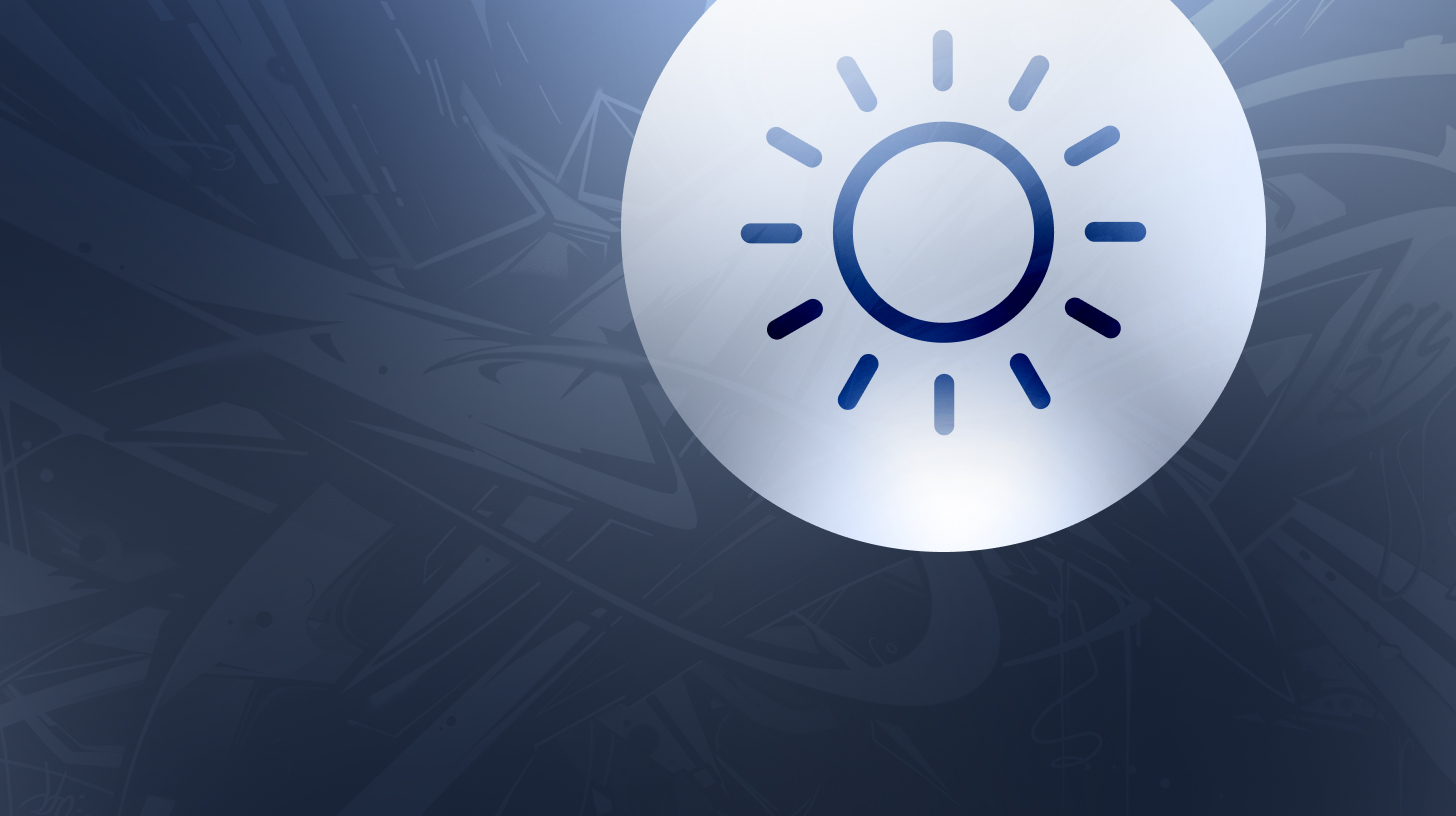
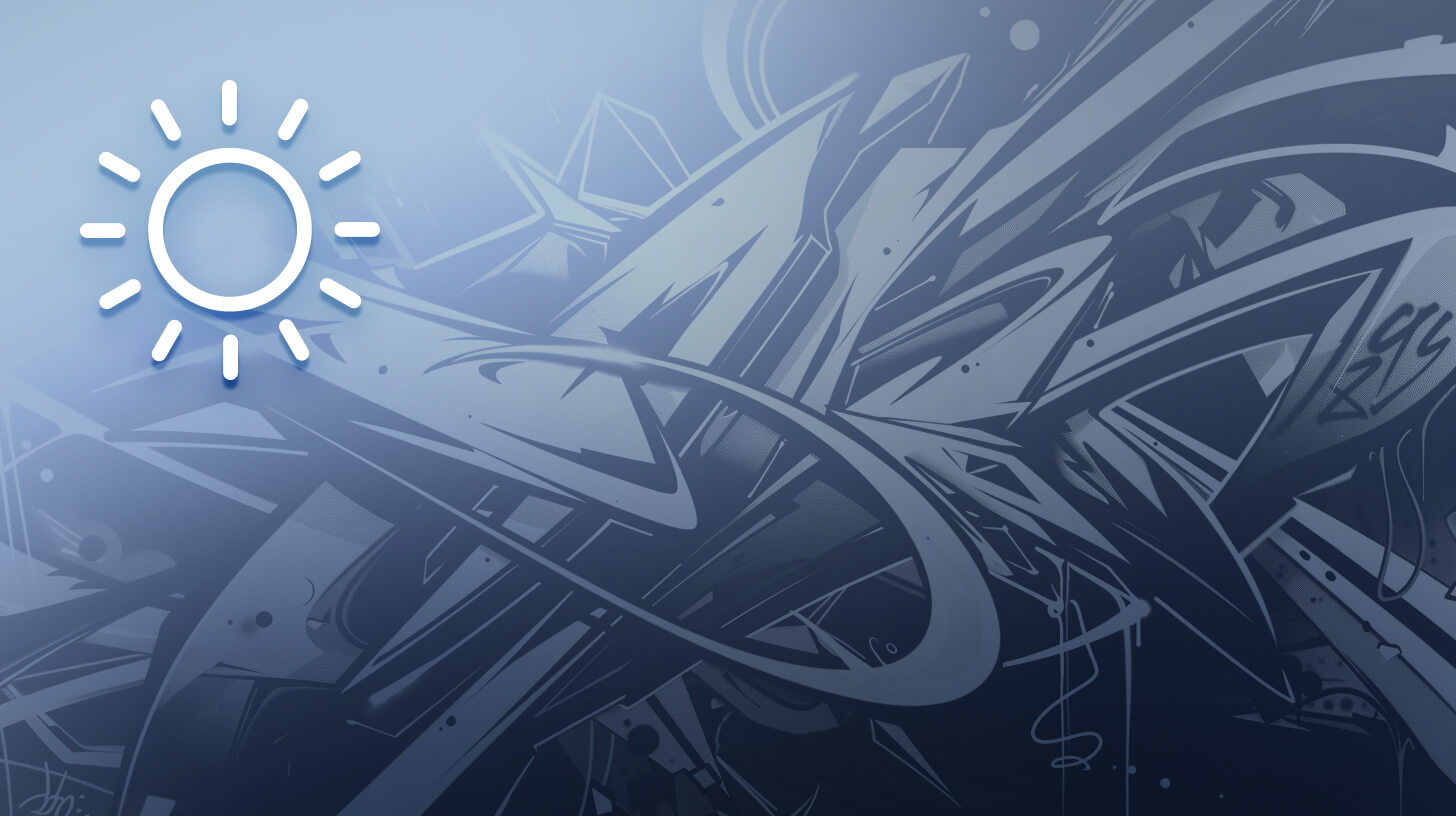
Updated images, nav structure

diff --git a/src/components/layout/LinksColorTools.vue b/src/components/layout/LinksColorTools.vue
@@ -13,7 +13,7 @@ import RoutesColorTools from '@/router/routes-color-tools';
           :to="route.path" 
           v-for="route in RoutesColorTools" 
           :key="route.name" 
-          class="bg-center bg-cover h-60 relative rounded-xl bg-white transition-shadow shadow hover:shadow-xl flex flex-col justify-between"
+          class="bg-left bg-cover h-60 relative rounded-xl bg-white transition-shadow shadow hover:shadow-xl flex flex-col justify-between"
           :style="{ backgroundImage: `url(${route.image})` }"
         >
           <section class="backdrop-blur-md text-ellipsis overflow-hidden absolute bottom-0 w-full px-6 py-4 hover:py-6 transition-all bg-slate-500/30 rounded-b-xl rounded-t-xl">

diff --git a/src/components/layout/LinksTextTools.vue b/src/components/layout/LinksTextTools.vue
@@ -13,7 +13,7 @@ import RoutesTextTools from '@/router/routes-text-tools';
           :to="route.path" 
           v-for="route in RoutesTextTools" 
           :key="route.name" 
-          class="bg-center bg-cover h-60 relative rounded-xl bg-white transition-shadow shadow hover:shadow-xl flex flex-col justify-between"
+          class="bg-left bg-cover h-60 relative rounded-xl bg-white transition-shadow shadow hover:shadow-xl flex flex-col justify-between"
           :style="{ backgroundImage: `url(${route.image})` }"
         >
           <section class="backdrop-blur-md text-ellipsis overflow-hidden absolute bottom-0 w-full px-6 py-4 hover:py-6 transition-all bg-slate-500/30 rounded-b-xl rounded-t-xl">

diff --git a/src/components/layout/LinksCssTools.vue b/src/components/layout/LinksCssTools.vue
@@ -13,7 +13,7 @@ import RoutesCssTools from '@/router/routes-css-tools';
           :to="route.path" 
           v-for="route in RoutesCssTools" 
           :key="route.name" 
-          class="bg-center bg-cover h-60 relative rounded-xl bg-white transition-shadow shadow hover:shadow-xl flex flex-col justify-between"
+          class="bg-left bg-cover h-60 relative rounded-xl bg-white transition-shadow shadow hover:shadow-xl flex flex-col justify-between"
           :style="{ backgroundImage: `url(${route.image})` }"
         >
           <section class="backdrop-blur-md text-ellipsis overflow-hidden absolute bottom-0 w-full px-6 py-4 hover:py-6 transition-all bg-slate-500/30 rounded-b-xl rounded-t-xl">

diff --git a/src/components/layout/Header.vue b/src/components/layout/Header.vue
@@ -27,13 +27,13 @@ const text = [
   {
     name: "Lorem Ipsum",
     description: "Generate placeholder text",
-    href: "/typography-tools/lipsum",
+    href: "/text-tools/lipsum",
     icon: DocumentTextIcon,
   },
   {
     name: "Text Analysis",
     description: "Word counter and keywords analysis tool",
-    href: "/typography-tools/word-counter",
+    href: "/text-tools/word-counter",
     icon: MagnifyingGlassCircleIcon,
   },
 ];
@@ -42,7 +42,7 @@ const css = [
   {
     name: "Static Type Scale",
     description: "Create a static typographic scale",
-    href: "/typography-tools/static-type-scale",
+    href: "/css-tools/static-type-scale",
     icon: MusicalNoteIcon,
   },
 ];
